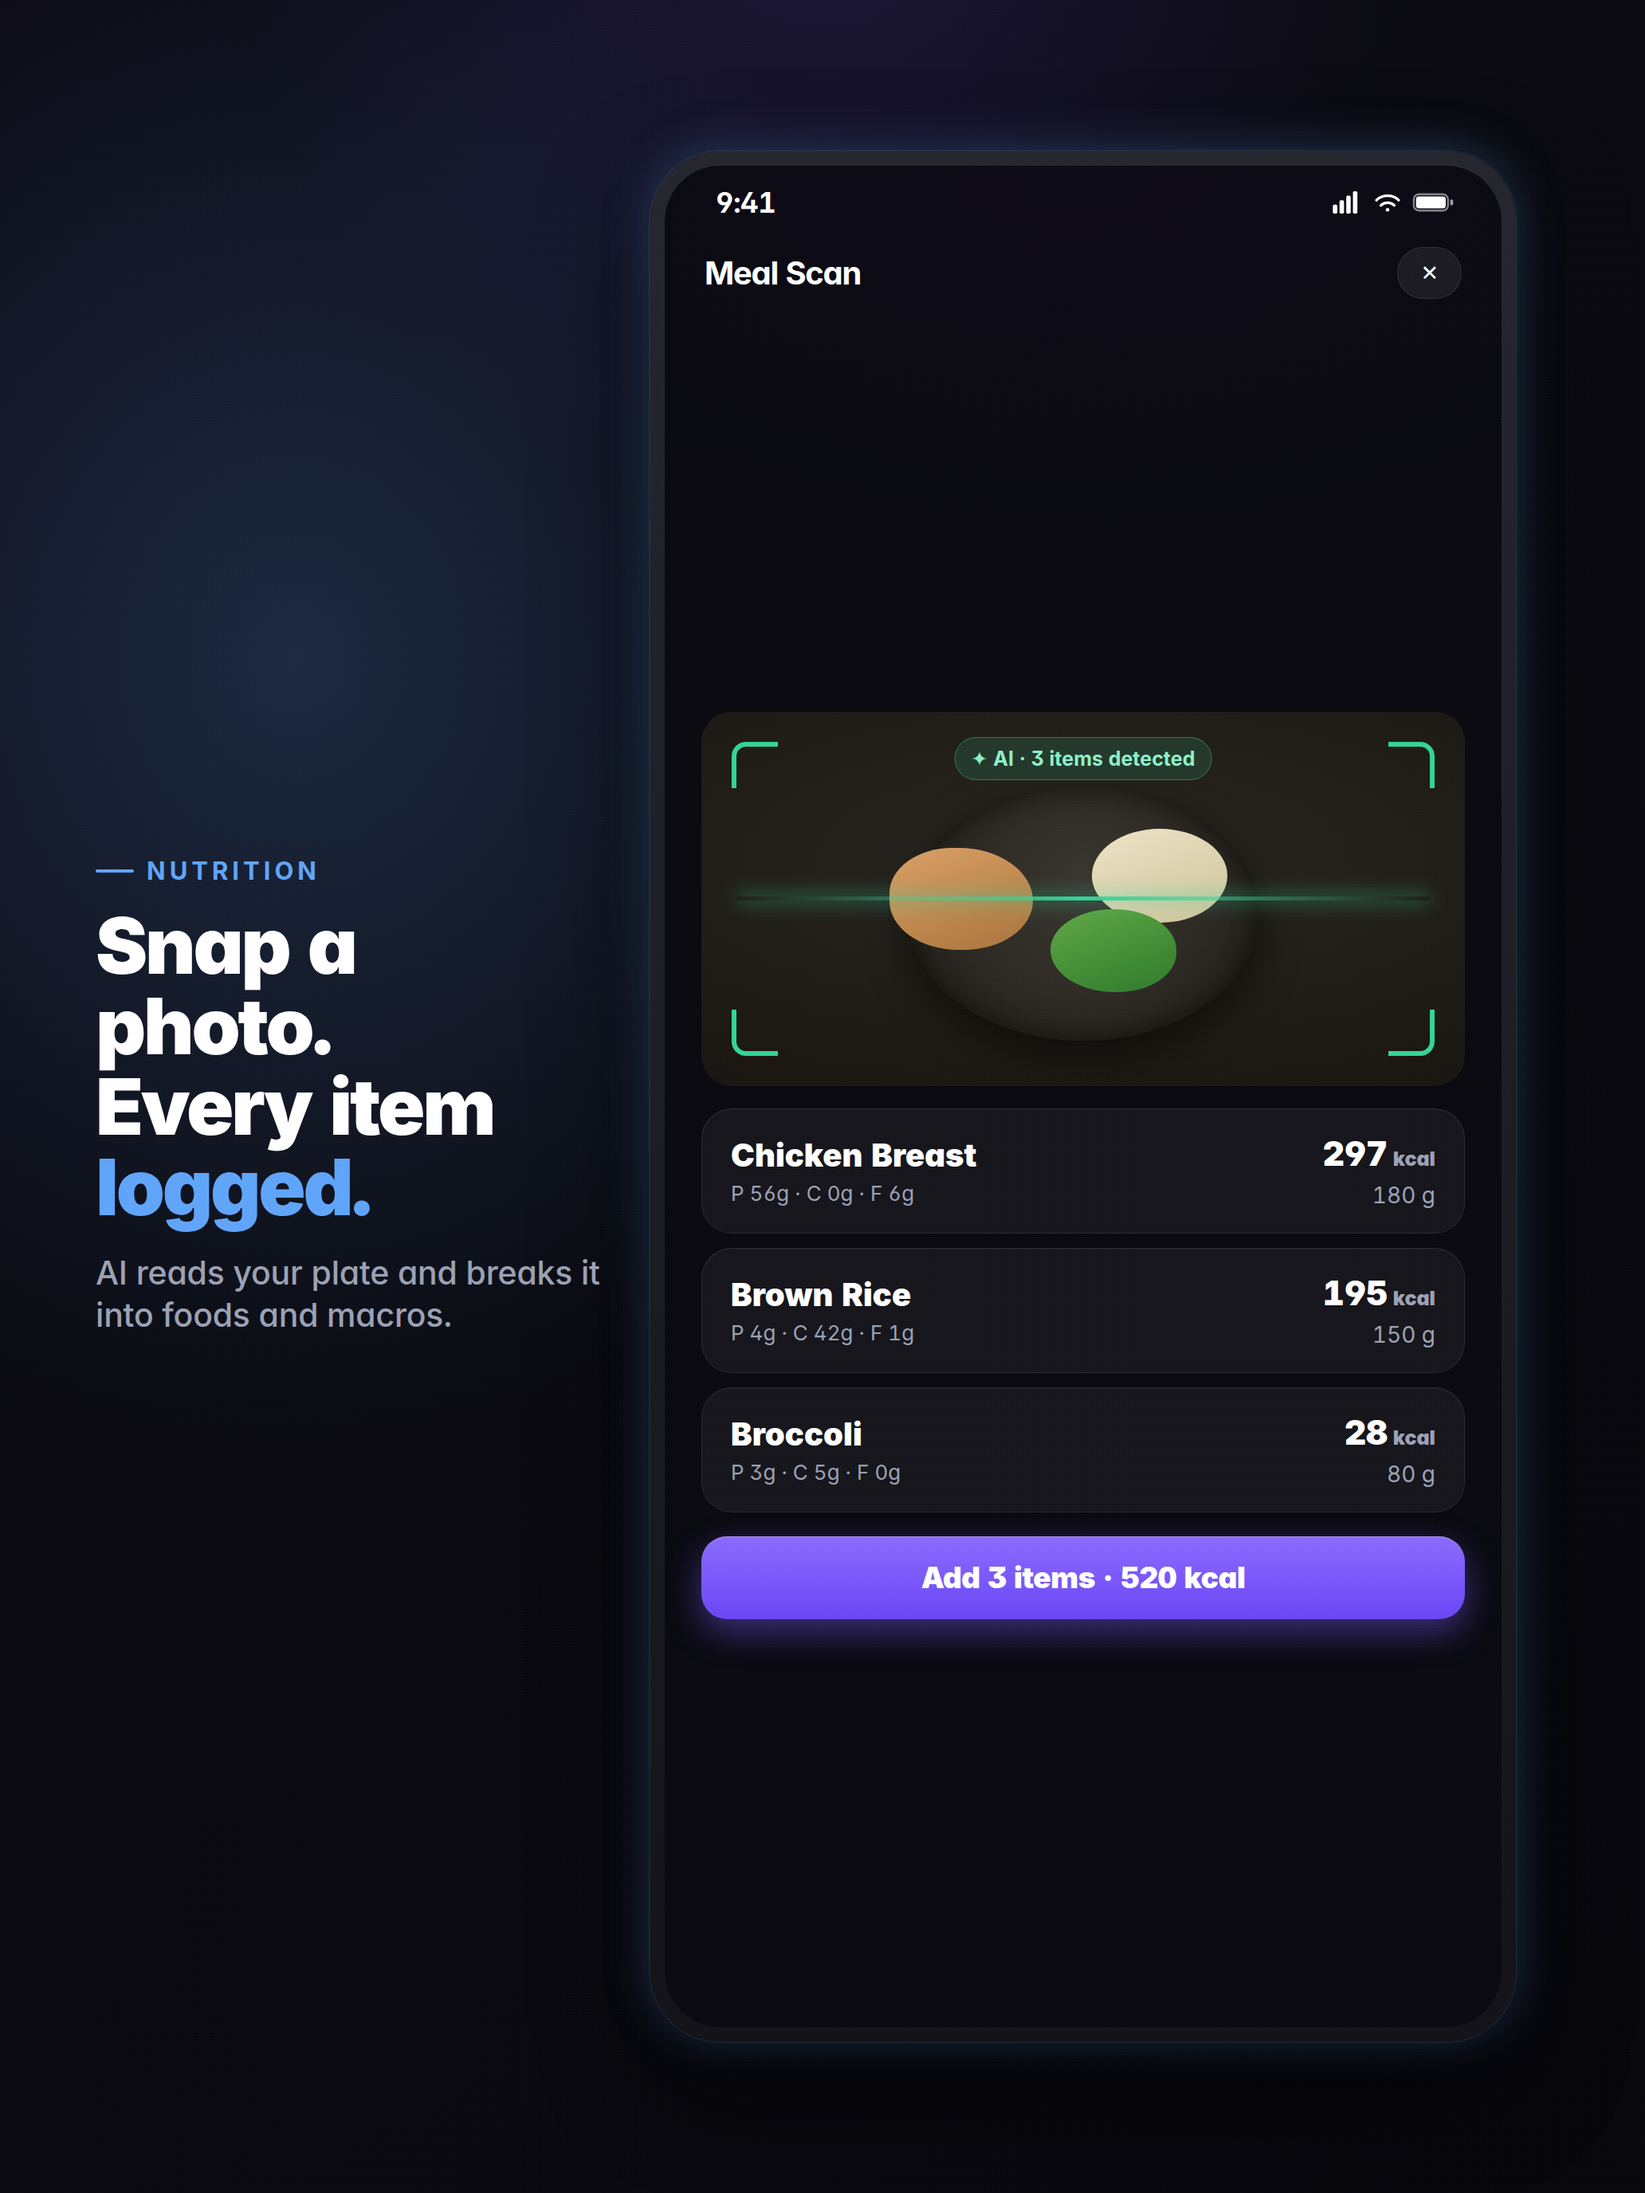
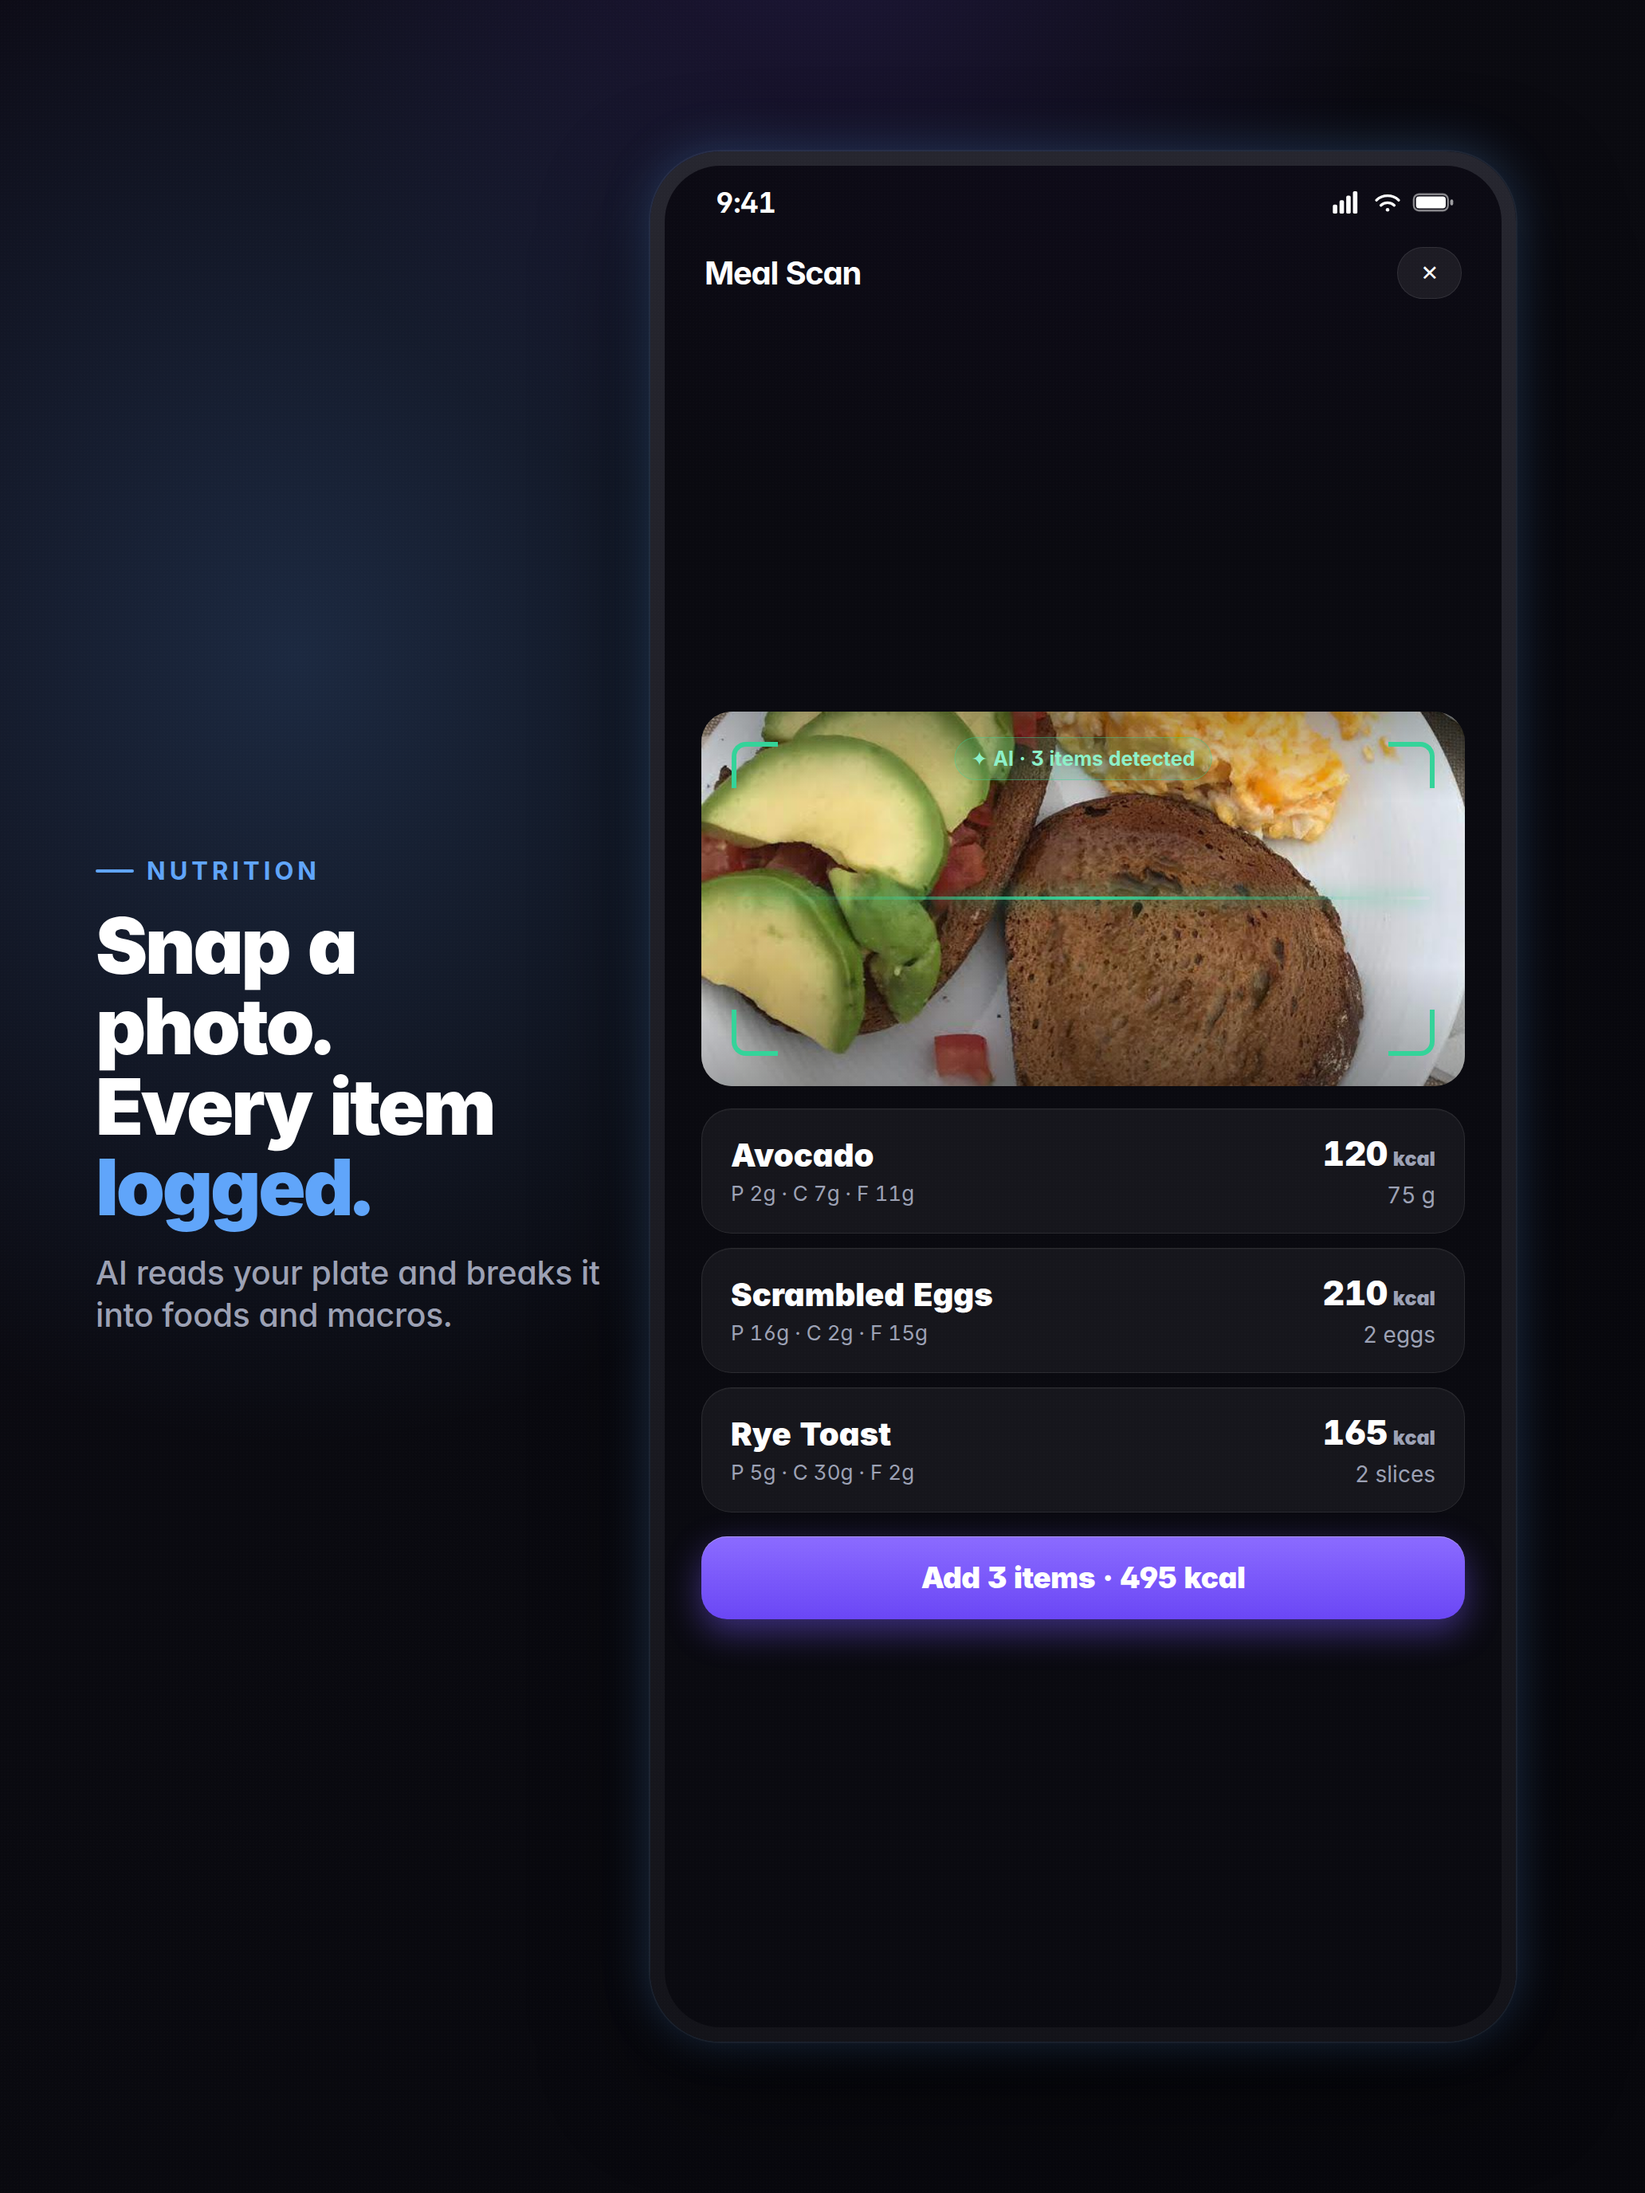
Use a real food photo with verified macros on the meal screen
The meal-scan frame now composites an actual plated meal (avocado +
scrambled eggs + rye toast) with accurate per-item macros instead of a
CSS illustration. The bundled photo is a documented placeholder to be
replaced with the user's own image before submission.

Claude-Session: https://claude.ai/code/session_01UYpdgqLWBwmPXcyyat1RsC

diff --git a/marketing/app-store/screens/04-meals.html b/marketing/app-store/screens/04-meals.html
@@ -22,33 +22,31 @@
       <div class="nav"><div class="title sm">Meal Scan</div><div class="pill" style="background:rgba(255,255,255,0.07);border:1px solid var(--hair);">✕</div></div>
 
       <div class="body" style="position:absolute;top:218px;left:0;right:0;bottom:46px;display:flex;flex-direction:column;justify-content:center;padding:0 46px;">
-        <div style="position:relative;height:470px;border-radius:38px;overflow:hidden;background:radial-gradient(120% 90% at 50% 40%,#2A2620,#14110D);">
-          <div style="position:absolute;left:50%;top:54%;transform:translate(-50%,-50%);width:440px;height:320px;border-radius:50%;background:radial-gradient(circle at 50% 40%,#3A3630,#211E18);box-shadow:inset 0 0 40px rgba(0,0,0,0.6),0 20px 50px rgba(0,0,0,0.5);"></div>
-          <div style="position:absolute;left:34%;top:50%;transform:translate(-50%,-50%);width:180px;height:128px;border-radius:46% 54% 50% 50%;background:linear-gradient(160deg,#D9A066,#A9743C);"></div>
-          <div style="position:absolute;left:60%;top:44%;transform:translate(-50%,-50%);width:170px;height:118px;border-radius:50%;background:linear-gradient(160deg,#EDE3C6,#CFC39A);"></div>
-          <div style="position:absolute;left:54%;top:64%;transform:translate(-50%,-50%);width:158px;height:104px;border-radius:50% 50% 48% 52%;background:linear-gradient(160deg,#5FA845,#2F7A2C);"></div>
+        <div style="position:relative;height:470px;border-radius:38px;overflow:hidden;background:#14110D;">
+          <div style="position:absolute;inset:0;background-image:url('../assets/meal-photo.jpg');background-size:cover;background-position:center 40%;"></div>
+          <div style="position:absolute;inset:0;background:linear-gradient(180deg,rgba(0,0,0,0.30),rgba(0,0,0,0) 24%,rgba(0,0,0,0) 68%,rgba(0,0,0,0.34));"></div>
           <div class="bracket" style="top:38px;left:38px;border-right:none;border-bottom:none;border-radius:18px 0 0 0;"></div>
           <div class="bracket" style="top:38px;right:38px;border-left:none;border-bottom:none;border-radius:0 18px 0 0;"></div>
           <div class="bracket" style="bottom:38px;left:38px;border-right:none;border-top:none;border-radius:0 0 0 18px;"></div>
           <div class="bracket" style="bottom:38px;right:38px;border-left:none;border-top:none;border-radius:0 0 18px 0;"></div>
-          <div style="position:absolute;left:44px;right:44px;top:232px;height:5px;border-radius:5px;background:linear-gradient(90deg,transparent,var(--mint),transparent);box-shadow:0 0 24px var(--mint);"></div>
+          <div style="position:absolute;left:44px;right:44px;top:232px;height:4px;border-radius:5px;background:linear-gradient(90deg,transparent,var(--mint),transparent);box-shadow:0 0 22px var(--mint);"></div>
           <div style="position:absolute;top:32px;left:50%;transform:translateX(-50%);" class="chip mint">✦ AI · 3 items detected</div>
         </div>
 
         <div class="glass row between" style="margin-top:28px;padding:30px 36px;">
-          <div class="col"><div style="font-size:40px;font-weight:800;">Chicken Breast</div><div class="muted" style="font-size:26px;margin-top:8px;">P 56g · C 0g · F 6g</div></div>
-          <div class="col" style="align-items:flex-end;"><div style="font-size:42px;font-weight:800;">297<span class="muted" style="font-size:25px;"> kcal</span></div><div class="muted" style="font-size:28px;margin-top:10px;">180 g</div></div>
+          <div class="col"><div style="font-size:40px;font-weight:800;">Avocado</div><div class="muted" style="font-size:26px;margin-top:8px;">P 2g · C 7g · F 11g</div></div>
+          <div class="col" style="align-items:flex-end;"><div style="font-size:42px;font-weight:800;">120<span class="muted" style="font-size:25px;"> kcal</span></div><div class="muted" style="font-size:28px;margin-top:10px;">75 g</div></div>
         </div>
         <div class="glass row between" style="margin-top:18px;padding:30px 36px;">
-          <div class="col"><div style="font-size:40px;font-weight:800;">Brown Rice</div><div class="muted" style="font-size:26px;margin-top:8px;">P 4g · C 42g · F 1g</div></div>
-          <div class="col" style="align-items:flex-end;"><div style="font-size:42px;font-weight:800;">195<span class="muted" style="font-size:25px;"> kcal</span></div><div class="muted" style="font-size:28px;margin-top:10px;">150 g</div></div>
+          <div class="col"><div style="font-size:40px;font-weight:800;">Scrambled Eggs</div><div class="muted" style="font-size:26px;margin-top:8px;">P 16g · C 2g · F 15g</div></div>
+          <div class="col" style="align-items:flex-end;"><div style="font-size:42px;font-weight:800;">210<span class="muted" style="font-size:25px;"> kcal</span></div><div class="muted" style="font-size:28px;margin-top:10px;">2 eggs</div></div>
         </div>
         <div class="glass row between" style="margin-top:18px;padding:30px 36px;">
-          <div class="col"><div style="font-size:40px;font-weight:800;">Broccoli</div><div class="muted" style="font-size:26px;margin-top:8px;">P 3g · C 5g · F 0g</div></div>
-          <div class="col" style="align-items:flex-end;"><div style="font-size:42px;font-weight:800;">28<span class="muted" style="font-size:25px;"> kcal</span></div><div class="muted" style="font-size:28px;margin-top:10px;">80 g</div></div>
+          <div class="col"><div style="font-size:40px;font-weight:800;">Rye Toast</div><div class="muted" style="font-size:26px;margin-top:8px;">P 5g · C 30g · F 2g</div></div>
+          <div class="col" style="align-items:flex-end;"><div style="font-size:42px;font-weight:800;">165<span class="muted" style="font-size:25px;"> kcal</span></div><div class="muted" style="font-size:28px;margin-top:10px;">2 slices</div></div>
         </div>
 
-        <div class="cta" style="margin-top:30px;">Add 3 items · 520 kcal</div>
+        <div class="cta" style="margin-top:30px;">Add 3 items · 495 kcal</div>
       </div>
     </div>
   </div>

diff --git a/marketing/app-store/README.md b/marketing/app-store/README.md
@@ -121,6 +121,13 @@ tabular numbers. Each frame shows a *win in progress*, not an empty state.
 - The deck matches the headlines documented in `APP_STORE_METADATA.md` (slots 1–8).
 
 ## Before you ship (Pre-ship checklist)
+- [ ] **Meal photo:** `screens/04-meals.html` composites a real food photo from
+      `assets/meal-photo.jpg` (avocado + scrambled eggs + rye toast) with verified
+      macros. The current file is a low-res **demo placeholder** from a public ML
+      research repo (`facebookresearch/inversecooking`, demo image) whose image
+      license isn't clearly stated — **replace it with your own meal photo before
+      submitting** (drop a JPG at `assets/meal-photo.jpg` and re-render). Your own
+      photo is the ideal asset anyway: it's authentic, owned, and zero-risk.
 - [ ] Confirm the `873` exercise count and `208` compound count still match the app.
 - [ ] Swap the illustrative figures (Recovery 78, Atlas Score 12,480, 47-day streak,
       Bio Age 28.4) for real screenshots/values if you'd rather not ship sample data.
